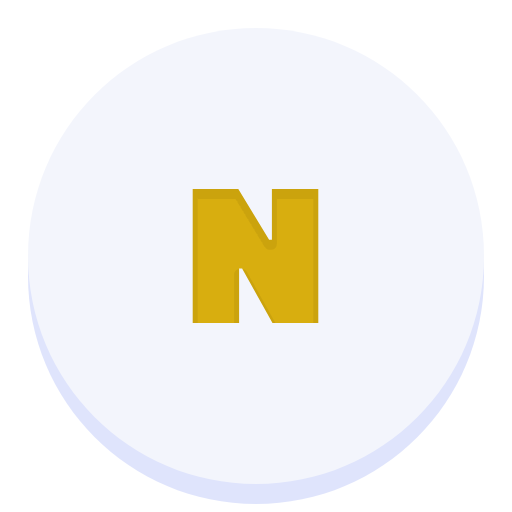
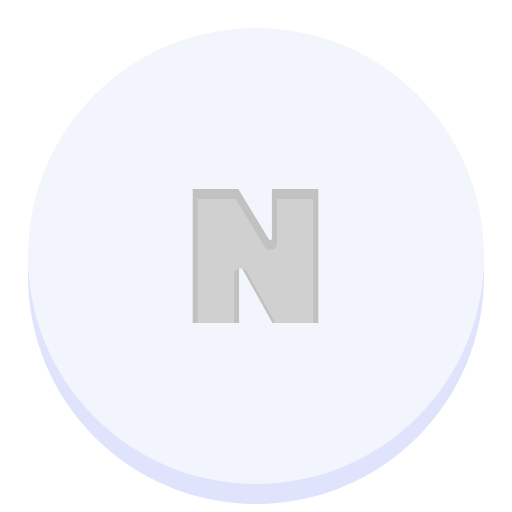
:sparkles: add variation rock img when a rock is the last placed

Changed region(s): [[0.375, 0.3438, 0.625, 0.6562]]

diff --git a/ft_gomoku/game/screen/components/board.py b/ft_gomoku/game/screen/components/board.py
@@ -104,24 +104,26 @@ def place_rocks(screen: pygame.Surface, game_engine: GameStruct, coords: tuple, 
 	pygame.display.update()
 
 
-def draw_rocks(screen: pygame.Surface, game_engine: GameStruct, coords: tuple, radius: int, player: int):
+def draw_rocks(screen: pygame.Surface, game_engine: GameStruct, coords: tuple, radius: int, player: int, last: bool = False):
 	"""Draw the rocks on the screen
 	:param screen: the pygame screen
 	:param game_engine: the game engine
 	:param coords: the coordinates of the rocks
 	:param radius: the radius of the rocks
 	:param player: the player
+	:param last: if the rock is the last one
 	"""
-	rock_img = None
-	if player == '1':
-		rock_img = get_image('rocks_white.png', radius, radius)
-	else:
-		rock_img = get_image('rocks_black.png', radius, radius)
-
+	rock_img = game_engine.get_rocks_img(player, last)
 	screen.blit(rock_img, (coords[0] - radius // 2, coords[1] - radius // 2))
 
 
 def redraw_board(engine: Engine, game_engine: GameStruct, coords_dict: dict):
+	"""Redraw the board
+	:param engine: the game engine
+	:param game_engine: the game engine
+	:param coords_dict: the coordinates of the rocks
+	"""
+	last_move = game_engine.grid.get_last_move()
 	engine.screen.fill((8, 26, 43))
 	for square in game_engine.board:
 		square.draw(engine.screen)
@@ -131,6 +133,8 @@ def redraw_board(engine: Engine, game_engine: GameStruct, coords_dict: dict):
 			value = grid[i][j]
 			if value is not 0:
 				coords = coords_dict[(j, i)]
-				print(coords)
-				draw_rocks(engine.screen, game_engine, coords, 35, value)
+				if last_move[1] == j and last_move[2] == i:
+					draw_rocks(engine.screen, game_engine, coords, 35, value, True)
+				else:
+					draw_rocks(engine.screen, game_engine, coords, 35, value, False)
 

diff --git a/ft_gomoku/data_structure/GameStruct.py b/ft_gomoku/data_structure/GameStruct.py
@@ -1,6 +1,7 @@
 import random
 from dataclasses import dataclass
 from ft_gomoku.grid.grid import Grid
+from ft_gomoku.engine.image_control import get_image
 
 
 @dataclass
@@ -16,7 +17,23 @@ class GameStruct:
 		self.board = []
 		self.last_move = [None, None, None]
 		self.random_player_turn()
+		self.rock_white_img = None
+		self.rock_black_img = None
+		self.rock_white_last_img = None
+		self.rock_black_last_img = None
 		print("Player turn", self.player_turn)
+
+	def init_img(self, radius: int):
+		self.rock_white_img = get_image('rocks_white.png', radius, radius)
+		self.rock_black_img = get_image('rocks_black.png', radius, radius)
+		self.rock_black_last_img = get_image('rocks_black_last.png', radius, radius)
+		self.rock_white_last_img = get_image('rocks_white_last.png', radius, radius)
+
+	def get_rocks_img(self, player: int, last: bool):
+		if player == '1':
+			return self.rock_white_last_img if last else self.rock_white_img
+		else:
+			return self.rock_black_last_img if last else self.rock_black_img
 
 	def get_last_move(self):
 		return self.last_move

diff --git a/ft_gomoku/game/screen/animations/place_rock.py b/ft_gomoku/game/screen/animations/place_rock.py
@@ -8,12 +8,7 @@ from ft_gomoku.data_structure.GameStruct import GameStruct
 def anim_place_rock(screen: pygame.Surface, game_engine: GameStruct, coords: tuple, radius: int, player: int):
 	"""Animate the rock placement
 	"""
-	rock_img = None
-	if player == '1':
-		rock_img = get_image('rocks_white.png', radius, radius)
-	else:
-		rock_img = get_image('rocks_black.png', radius, radius)
-
+	rock_img = game_engine.get_rocks_img(player, True)
 	rock_img.convert_alpha()
 	rock_img.set_alpha(0)
 

diff --git a/ft_gomoku/game/screen/game.py b/ft_gomoku/game/screen/game.py
@@ -66,6 +66,7 @@ def game_screen(engine: Engine):
 
 	# Set the game engine
 	game_engine = GameStruct(18, "Nolan", "Leo")
+	game_engine.init_img(35)
 
 	# Set timer
 	game_engine.set_time(time.time())
